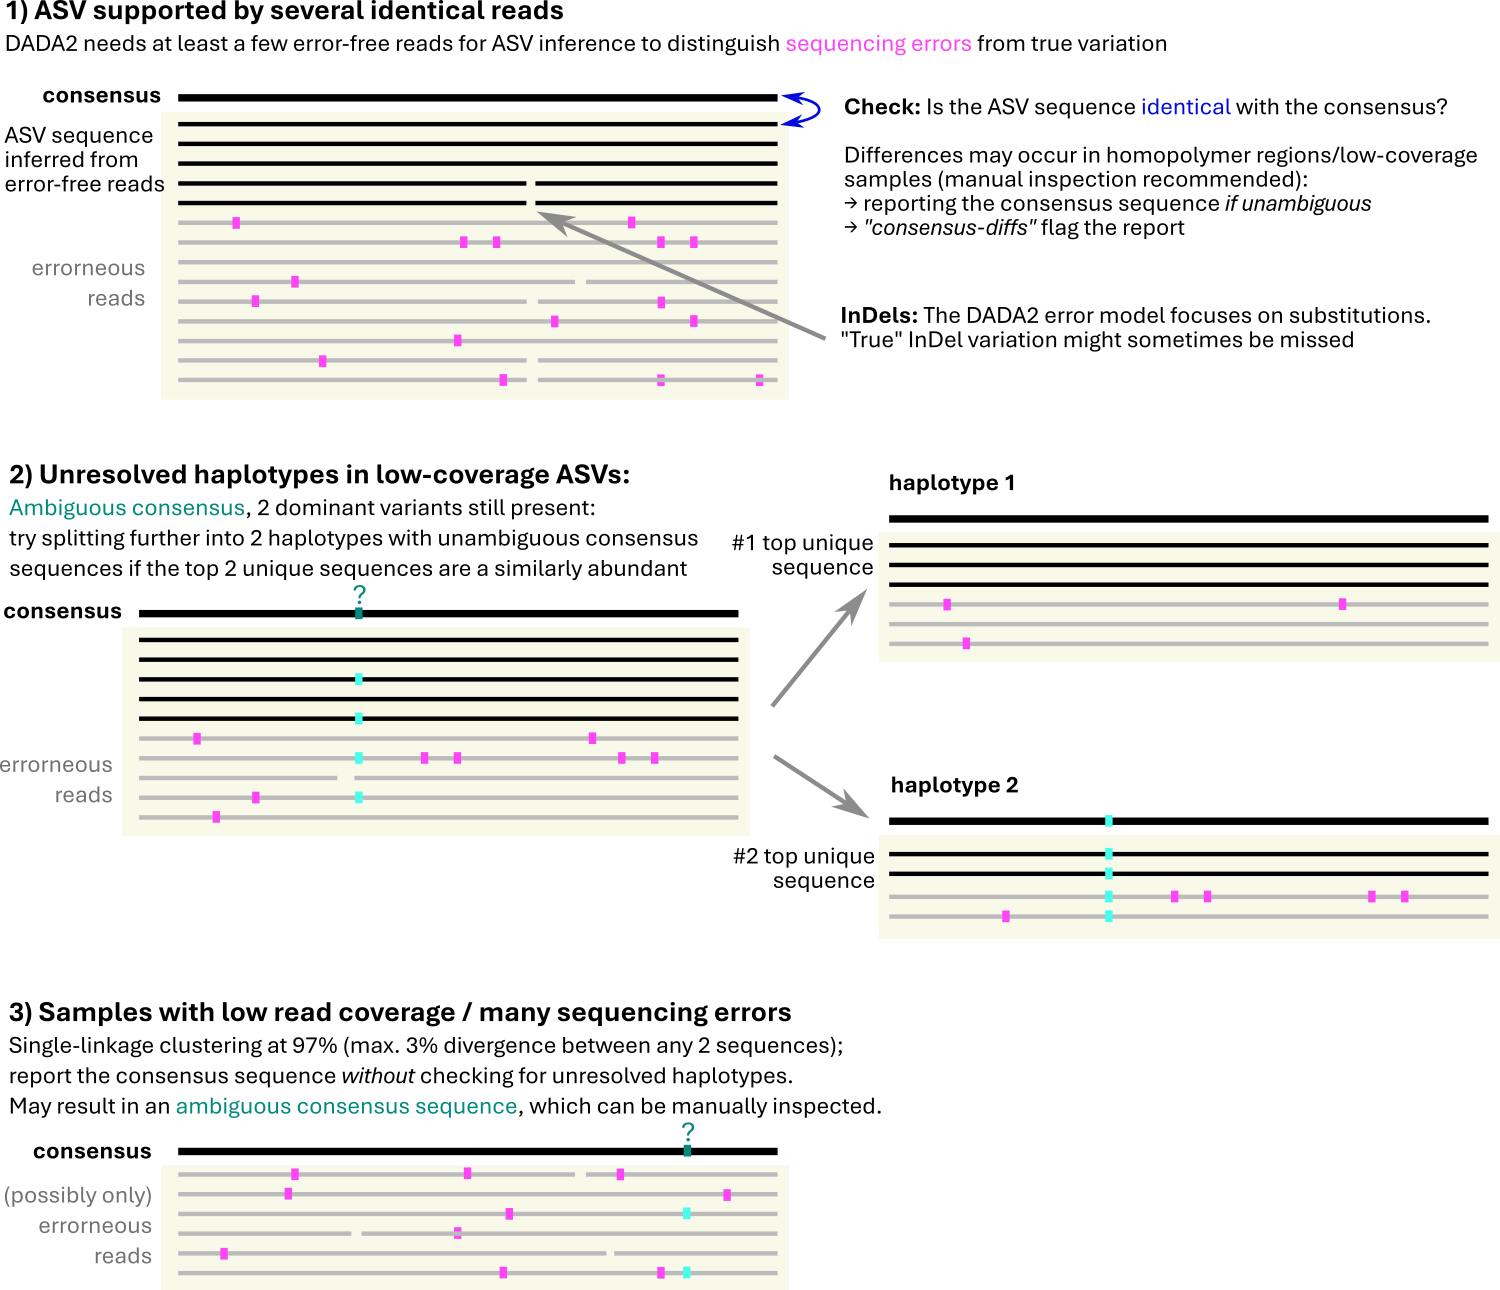
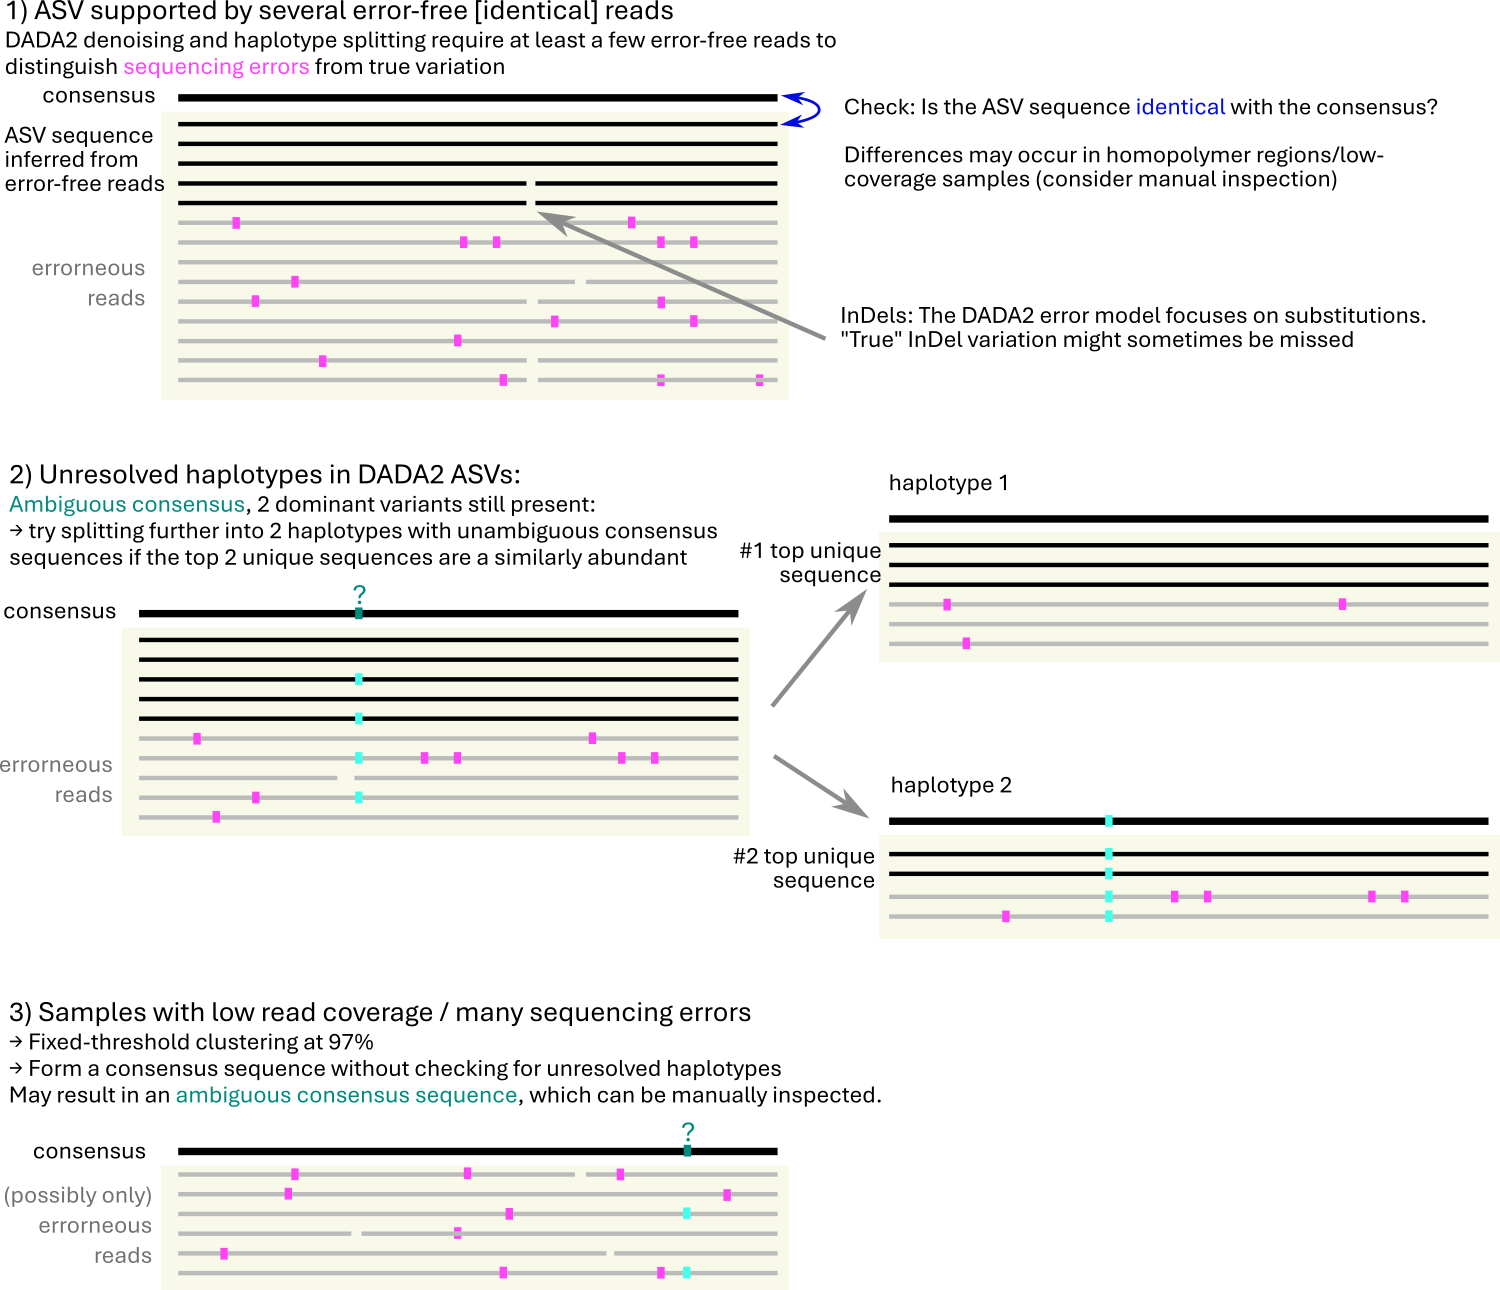
Update docs

diff --git a/docs/index.md b/docs/index.md
@@ -1,35 +1,47 @@
 # Nanopore barcoding pipeline
 
-This R-based pipeline infers *specimen barcodes* Nanopore sequencing data
+This R-based pipeline infers *specimen barcodes* from Nanopore sequencing data
 with multiplexed samples.
 
 It uses a [DADA2](https://benjjneb.github.io/dada2)-based
-[clustering strategy](analysis/workflow.md#details-on-the-clustering)
-and reports consensus sequences, separately for haplotypes and other sequence
-polymorphisms as well as possible.
-This requires that each amplicon is supported by at least a few error-free sequencing reads,
-which is usually the case with the latest R10.4 chemistry, given that sequences
-are not overly long (tested with 500-1000 bp amplicons).
+[clustering strategy](workflow.md#details-on-the-clustering) with some refinements with the aim to resolve
+haplotypes and other sequence polymorphisms as well as possible.
+
+The DADA2 denoising method requires that each amplicon is supported by at least a
+few error-free sequencing reads, which is usually the case with the latest R10.4 chemistry,
+given that sequences are not overly long (tested with 500-1000 bp amplicons).
 In case of low sequencing depths (with low replication), a fixed-threshold clustering
 procedure is applied instead.
 
-**Other features**
+## Features
 
-- Automatic *taxonomic assignments* (currently implemented for the ITS marker)
-  for validating the morphological identifications and auto-filtering of contaminants
-- Detailed output:
-    * *detailed processing report* (generated from `analysis.Rmd`) ([example](analysis-example.html))
-    * *Excel table* with detailed overview of sequences and possible issues (see [curation](curation.md))
-    * *BAM/FASTA files* that assist with [manual curation](curation.md)
+* Recognizes and removes primers with sample-specific tags for one or **multiple pooled amplicons**
+  and does quality filtering
+* Automatic **taxonomic assignments** based on user-defined reference databases
+* Matching of morphological identifications with the sequence-based taxonomy
+  and a procedure to automatically **recognize/remove contaminants**
+* Detailed **output**:
+    - *detailed processing report* (generated from `analysis.Rmd`)
+      ([example](analysis-example.html))
+    - *Excel table* with the *consensus sequences*, taxonomy and possible issues
+      (see [curation](curation.md))
+    - *BAM/FASTA alignment files* that can be viewed during
+      [manual curation](curation.md)
 
 [More on the clustering workflow and other processing steps](analysis/workflow.md)
 
 ## Documentation of full barcoding workflow
 
-1. [Primer design](primers.md) ([example report](primer-design-example.html))
-1. [PCR, library preparation and sequencing](lab.md)
-2. [Infer barcode sequences](analysis) using this pipeline ([example report](analysis-example.html))
-3. [Manual curation](curation.md)
+[Go to documentation start page](https://markschl.github.io/dada-ont-barcoding)
+
+Topics:
+
+1. [Primer design](primers.md)
+   ([example report](primer-design-example.html))
+2. [PCR, library preparation and sequencing](lab.md)
+3. [Infer barcode sequences](analysis) using this pipeline
+   ([example report](analysis-example.html))
+4. [Manual curation](curation.md)
 
 ## Useful references
 

diff --git a/docs/analysis/basecalling.md b/docs/analysis/basecalling.md
@@ -8,14 +8,14 @@ Alternatively, basecalling may be done on a different computer, e.g. a HPC serve
 
 Different [machine learning models](https://software-docs.nanoporetech.com/dorado/latest/models/models) are available
 for the basecalling, offering different trade-offs between speed and accuracy.
-Our experience suggests that the `sup` model gives substantially better results than the `hac` model (by far) in terms of Q scores
-and recognized primers/barcodes. Basecalling can sometimes take a full day for a MinION run, depending on the GPU setup.
+Our experience suggests that the `sup` model gives substantially better results than the `hac` model in terms of Q scores
+and recognized primers/barcodes. Basecalling with `sup` may take from a few hours to a full day for a MinION run, depending on the GPU setup.
 
 ## On your computer
 
 [Dorado](https://software-docs.nanoporetech.com/dorado/latest) is needed for this (`dorado` command should be available in console). It's installation size is quite large (a few Gigabytes).
 
-If not using Dorado for other things, you may also use the `install-dorado.sh` installation script, which automatically downloads the software into the *bin* subfolder.
+If not using Dorado for other things, you may also use the `install-dorado.sh` installation script, which automatically downloads the software into the *bin* subfolder (Linux / Mac only).
 Make sure to supply the latest version, which can be [checked on the website](https://software-docs.nanoporetech.com/dorado/latest) (example with `1.3.0`):
 
 ```sh
@@ -39,6 +39,7 @@ ont_data=/media/user/run/data
 model=sup
 
 # run the base-caller (may take a long time)
+# replace 'dorado' with full path to the 'dorado' binary if necessary; e.g.
 # 'bin/dorado' if Dorado was installed with 'scripts/install-dorado.sh'
 dorado basecaller $model -r --no-trim --emit-fastq $ont_data | gzip -c > analysis/$run_name/reads.fastq.gz
 ```
@@ -46,7 +47,7 @@ dorado basecaller $model -r --no-trim --emit-fastq $ont_data | gzip -c > analysi
 An easy way to find out the actual paths of the nanopore data is to drag & drop the folders on the console, then copy the path there.
 
 
-### On a HPC server
+## On a HPC server
 
 Basecalling on a remote server is slightly more complicated. This script shows how to do this on a SLURM server with a GPU node. The `remote_dir` must contain a job submission script (based on this [template](https://github.com/markschl/dada-ont-barcoding/templates/base_calling/slurm_submit_basecaller.sh)); it can be copied to the remote directory e.g. using an FTP client; adjust the `dorado` path and your email address inside the script.
 
@@ -72,9 +73,9 @@ model=sup
 
 # copy the data
 cd $run_dir
-rsync -av --info=progress2 "$ont_data"/*/*/pod5_skip $ssh:$remote_dir/$run_name
+rsync -av --info=progress2 "$ont_data" $ssh:$remote_dir/$run_name
 # submit the run
-ssh $ssh -t "cd ~/$remote_dir && sbatch slurm_submit_basecaller.sh $model $run_name/pod5_skip"
+ssh $ssh -t "cd ~/$remote_dir && sbatch slurm_submit_basecaller.sh $model $run_name"
 ```
 
 There should be a message: "submitted batch job ...". Wait for the completion email and then execute:

diff --git a/docs/analysis/workflow.md b/docs/analysis/workflow.md
@@ -10,11 +10,20 @@
 
 More details are given in `analysis.Rmd`, or the generated report.
 
+## Primer search
+
+It is assumed that sample-specific tags are attached to primers on both sides (dual indexing):
+
+<span style="color: #2a90b8ff">TAG1</span><span style="color: #b82ab3ff">FPRIMER</span>BARCODESEQUENCE<span style="color: #b82ab3ff">RPRIMER</span><span style="color: #2a90b8ff">TAG2</span>
+
+**Combining multiple amplicons** is possible. Primers are searched in the order that amplicons appear in the sample sheet. Therefore, if there are *nested amplicons*, the shorter one should be placed *at the end* in the sheet.
+
+
 ## Details on the clustering
 
 The procedure starts with DADA2 clustering, followed by an alignment to the inferred ASV sequence and consensus building. Additional steps may follow depending on whether the consensus is unambiguous (each alignment column supported by enough identical bases), or not.
 
-All the settings are documented on top of the *get_barcodes* function in [cluster.R](https://github.com/markschl/dada-ont-barcoding/R/cluster.R). The defaults can be changed in the `cluster` section of `config.yaml`.
+All the settings are documented on top of the *get_barcodes* function in [cluster.R](https://github.com/markschl/dada-ont-barcoding/blob/main/R/cluster.R). The defaults can be changed in the `cluster` section of `config.yaml`.
 
 ![procedure](img/cluster-flowchart.png)
 

diff --git a/docs/analysis/index.md b/docs/analysis/index.md
@@ -48,7 +48,7 @@ brew install samtools minimap2 vsearch
 > conda activate dada-ont-barcoding
 > ```
 
-For all the missing tools (including *seqtool*) there is an *installation script**,
+For all the missing tools (including *seqtool*) there is an *installation script*,
 which places them in the `bin` subdirectory. *Samtools* and *minimap2* need to be compiled
 from source (UNIX build environment required).
 Run the following in a Bash console:
@@ -128,5 +128,5 @@ The analysis report will appear in `analysis/<run_name>/analysis.html`, along wi
 
 ### Final steps
 
-- [Manual curation](curation.md)
+- [Manual curation](../curation.md)
 - Delete `analysis/<run_name>/tmp` once the analysis is done (it may take a lot of space).
